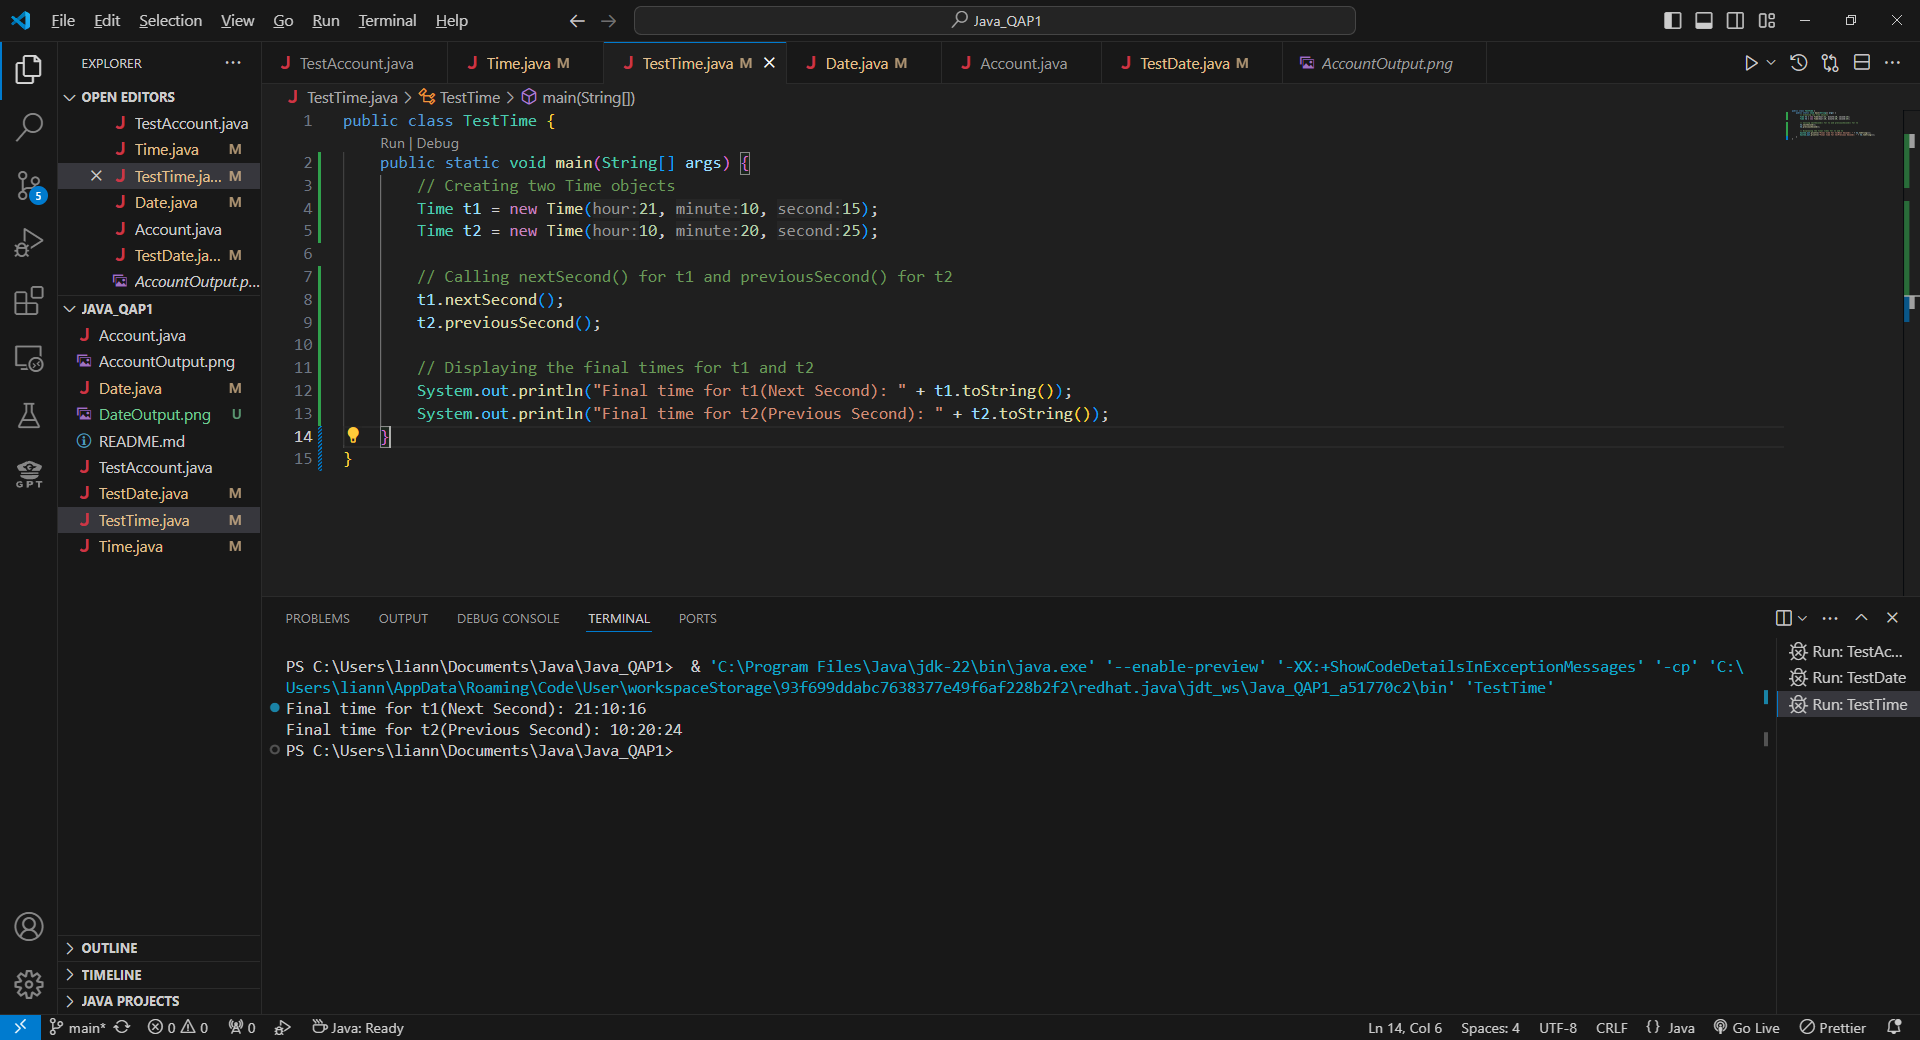
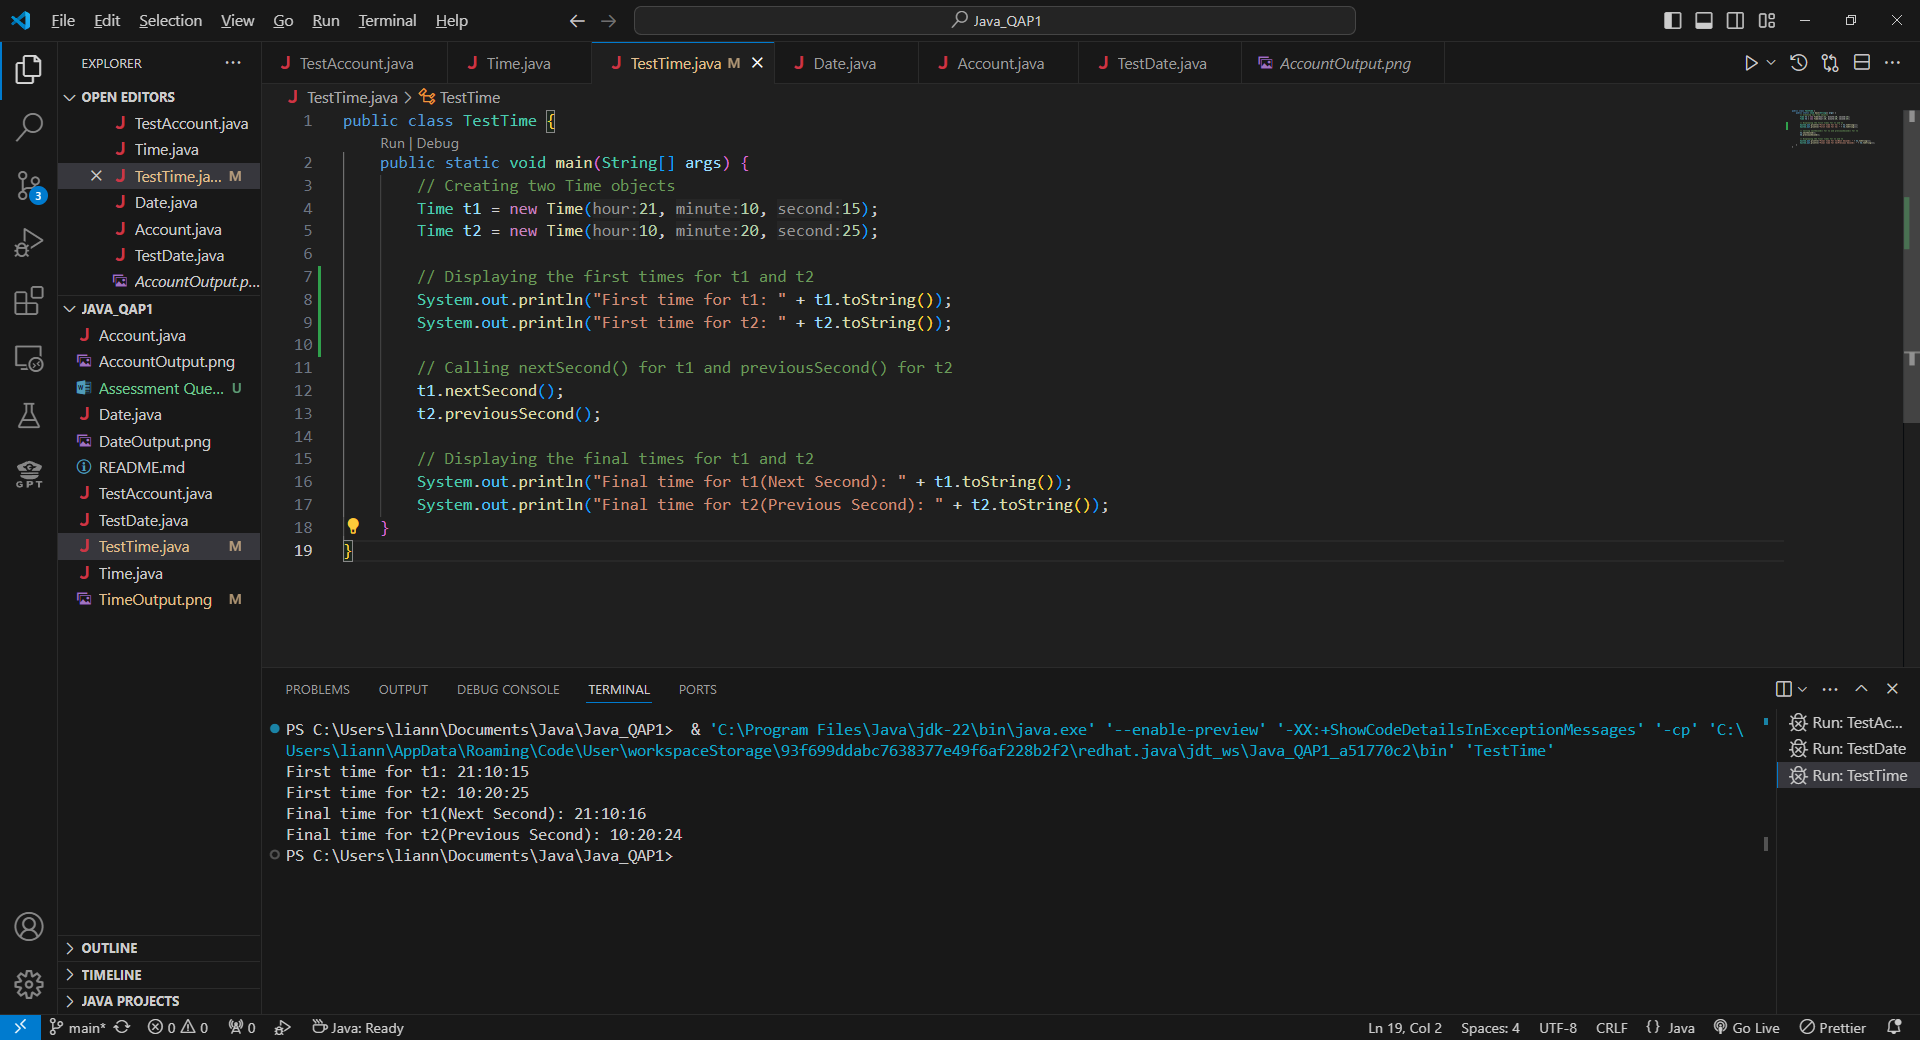
Final Changes

diff --git a/TestTime.java b/TestTime.java
@@ -4,6 +4,10 @@ public class TestTime {
         Time t1 = new Time(21, 10, 15);
         Time t2 = new Time(10, 20, 25);
 
+        // Displaying the first times for t1 and t2
+        System.out.println("First time for t1: " + t1.toString());
+        System.out.println("First time for t2: " + t2.toString());
+
         // Calling nextSecond() for t1 and previousSecond() for t2
         t1.nextSecond();
         t2.previousSecond();
